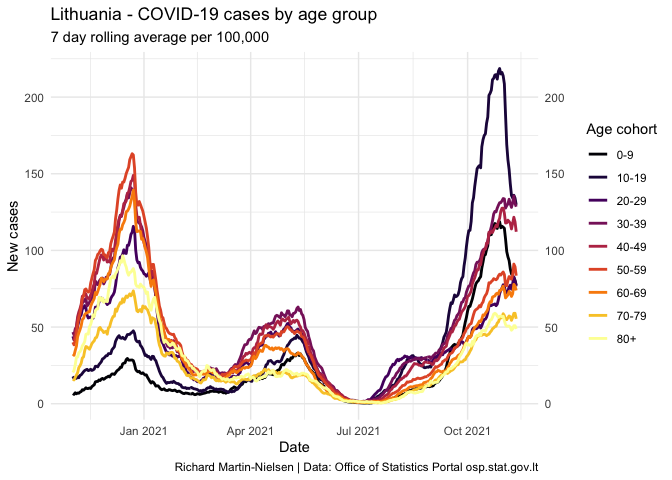
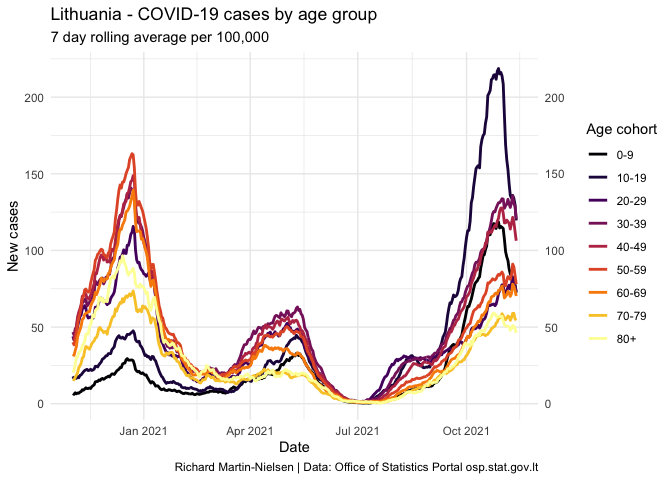
Render graph pages for all countries

diff --git a/docs/Lithuanian-age-breakdowns.md b/docs/Lithuanian-age-breakdowns.md
@@ -77,7 +77,7 @@ These charts are inspired by the narrow age cohort graph given by the
 OSP on their [pandemic illustrations
 page](https://osp.stat.gov.lt/pandemijos-iliustracijos):
 
-![](https://osp.stat.gov.lt/documents/10180/8555211/vaiku_atvejai_per14d_100k_20211112.png)
+![](https://osp.stat.gov.lt/documents/10180/8555211/vaiku_atvejai_per14d_100k_20211113.png)
 
 Because the age cohorts given in the two sources used do not align, when
 calculating COVID rates relative to age cohorts, a smaller number of
